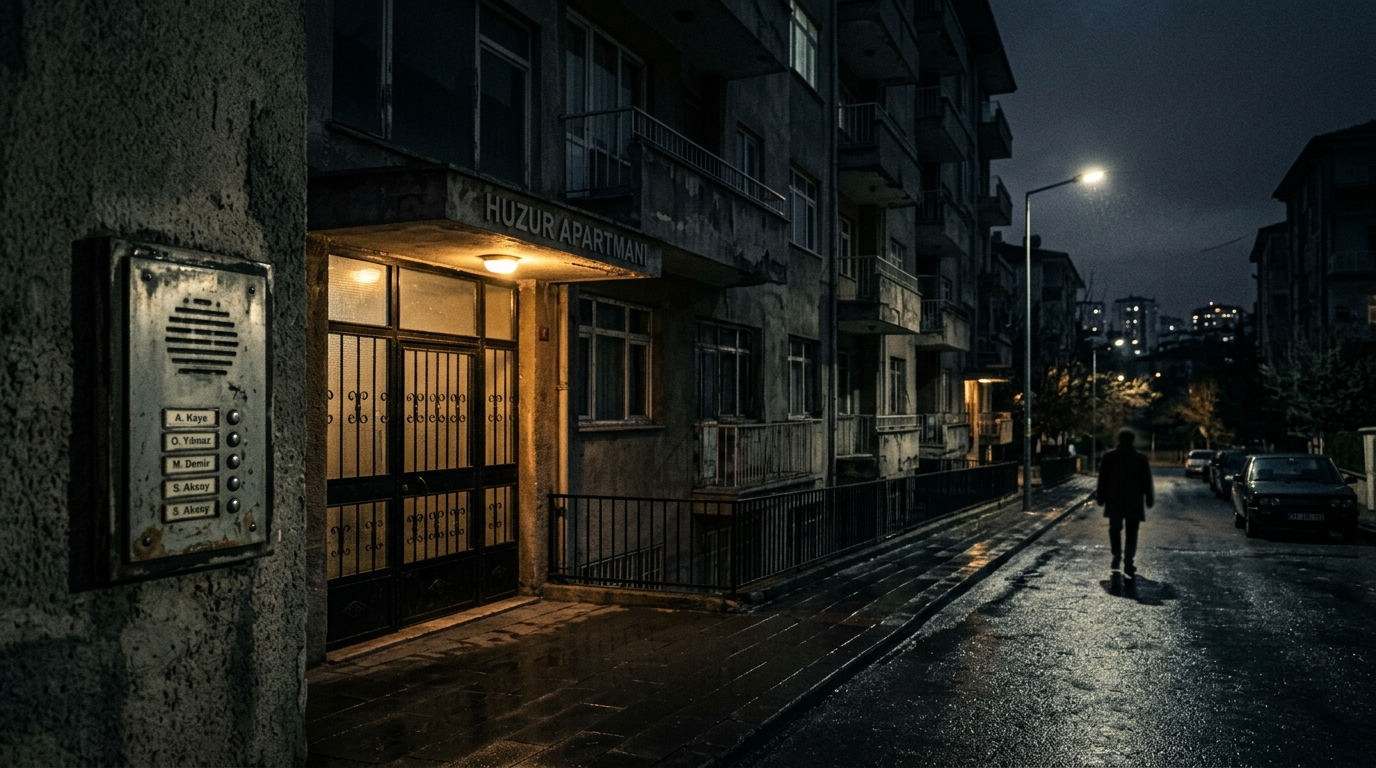
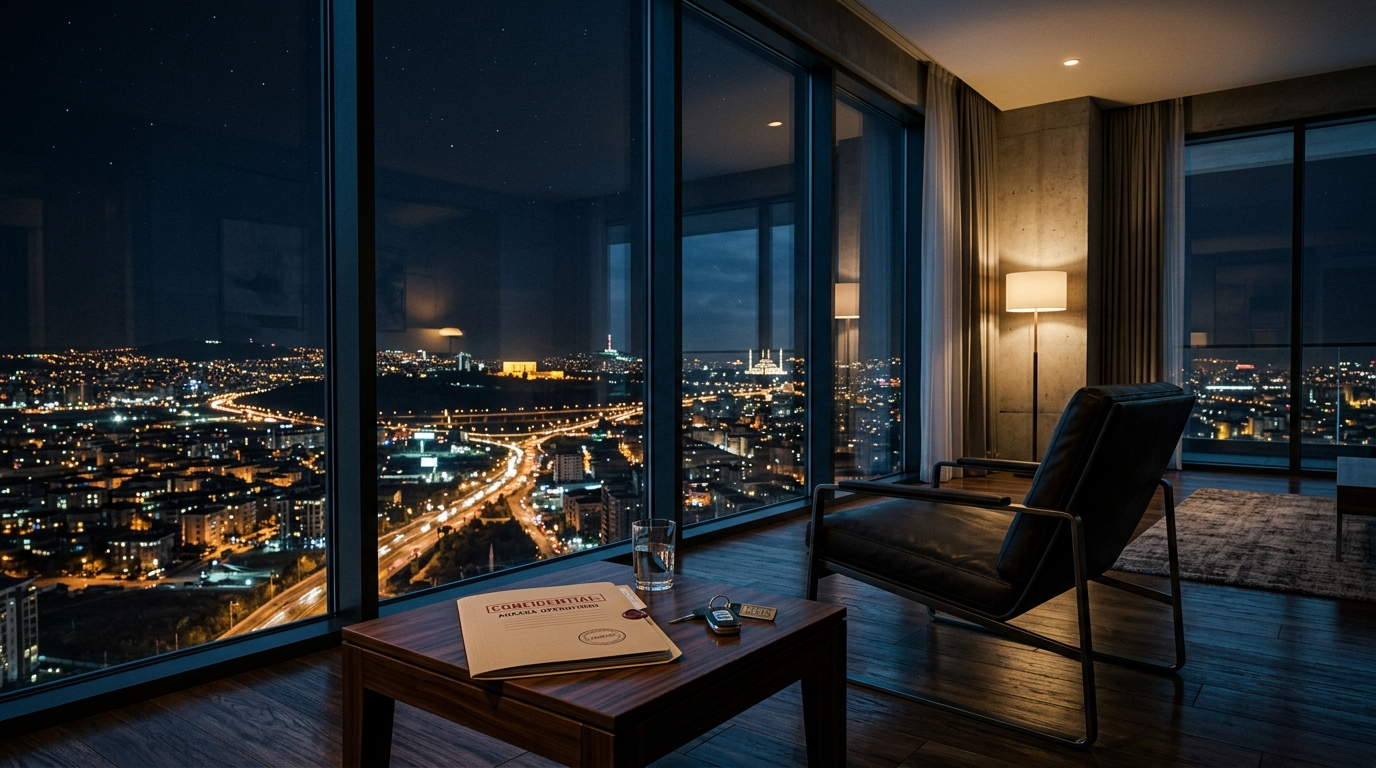
feat(sussuz): integrate v2 master night map, north penthouse, west studio, and lighthouse

diff --git a/sussuz/assets/js/app.js b/sussuz/assets/js/app.js
@@ -247,13 +247,13 @@ document.addEventListener("DOMContentLoaded", () => {
 
     hill: {
       id: "hill",
-      title: "TEPE // ANKARA AYAZI",
-      subtitle: "EXT. SUSUZ SIRTLARI / TEPE — 05:30 // BÖLÜM 2, SAHNE 12",
+      title: "TEPE // AŞIKLAR TEPESİ",
+      subtitle: "EXT. SUSUZ SIRTLARI / ISSIZ MANZARA — 05:30 // BÖLÜM 2, SAHNE 12",
       image: "assets/img/loc_hill.jpg",
       characterId: "murat",
       characterName: "Murat ve Ekrem",
       characterRole: "Sessizlik ve Ankara Ayazı",
-      atmosphere: "Bir anda bütün kulüp sesi kesiliyor. Sadece rüzgâr. Murat ve Ekrem arabaya yaslanmış, Ankara’ya bakıyor. Sigara. 'Bilmem, Ben De' teması giriyor. Ekrem: 'Her şeyi anlatak da diziye ne kaldı yarraam? :D'",
+      atmosphere: "Eski anten kulelerinden arınmış, virajlı yolun bittiği ıssız tepe. Aşıklar tepesi tadında ama gecenin 05:30'unda sadece rüzgâr ve sigara dumanı. Murat ve Ekrem arabaya yaslanmış, aşağıdaki Ankara ışıklarına bakıyor. 'Bilmem, Ben De' teması giriyor. Ekrem: 'Her şeyi anlatak da diziye ne kaldı yarraam? :D'",
       musicNote: "Bilmem, Ben De — Kuru Ayaz Rüzgarı",
       noteOrigin: "Araba Torpido Gözü",
       props: [
@@ -272,21 +272,26 @@ document.addEventListener("DOMContentLoaded", () => {
 
     lake: {
       id: "lake",
-      title: "GÖL KENARI",
+      title: "GÖL KENARI // DENİZ FENERİ",
       subtitle: "EXT. GÖKSU PARKI & ESKİ BATAKLIK KIYISI // DİLEK'İN DOĞUM GÜNÜ",
       image: "assets/img/scene_lake.png",
       characterId: "bahar",
       characterName: "Bahar",
       characterRole: "Tek Başına Direniş",
-      atmosphere: "Bahar tek başına. İskelede soğuk gece rüzgârı. Her gün yakmıyor bu mumu; bugün Bahar Dilek'in doğum günü. Kendi yaptığı pastayı almış gelmiş, Bahar Dilek'in kanı üzerine kurulmuş bir parkta onun doğum günü pastasını üflüyor... 'Bataklık' ağıtı.",
+      atmosphere: "Bahar tek başına. İskelenin ucundaki beyaz deniz fenerinin soğuk ışığı göle vuruyor. Her gün yakmıyor bu mumu; bugün Bahar Dilek'in doğum günü. Kendi yaptığı pastayı almış gelmiş, Bahar Dilek'in kanı üzerine kurulmuş bir parkta onun doğum günü pastasını üflüyor... 'Bataklık' ağıtı.",
       musicNote: "Bataklık — Ağıt ve Yağmur Tıpırtısı",
       isLakeMemorial: true,
-      noteOrigin: "İskele Kenarındaki Taş",
+      noteOrigin: "Fenerin Dibindeki İskele Tahtası",
       props: [
         {
           name: "Dilek'in Doğum Günü Pastası & Tek Mum",
           icon: "🕯",
           desc: "Bahar'ın kendi elleriyle yaptığı doğum günü pastası. Bahar Dilek'in kanı üzerine kurulmuş bu parkta üflenmeyi bekliyor."
+        },
+        {
+          name: "Göksu Deniz Feneri",
+          icon: "🏮",
+          desc: "Eski bataklığın üzerine inşa edilen parkta, göletin karanlık sularına vuran beyaz fener ışığı. Şehrin hafızasını örten eğreti bir ışık."
         }
       ]
     },
@@ -328,32 +333,53 @@ document.addEventListener("DOMContentLoaded", () => {
 
     murat_home: {
       id: "murat_home",
-      title: "MURAT'IN EVİ",
-      subtitle: "EXT. ANKARA APARTMANLARI // MEKÂN ÇAĞRISI",
+      title: "MURAT'IN EVİ // PENTHOUSE",
+      subtitle: "INT/EXT. KUZEY BLOKLARI / GÖKDELEN REZİDANS // BÖLÜM 1",
       image: "assets/img/loc_murat_home.jpg",
       characterId: "murat",
       characterName: "Murat",
-      characterRole: "Henüz Bulunmadı",
-      atmosphere: "MURAT'IN EVİ — Henüz bulunmadı. 'Evi de mi biz bulak müdür? :D Bu mekânı biliyor olabilirsin.'",
-      musicNote: "Uzak Trafik Uğultusu",
-      isMissingLocation: true,
-      noteOrigin: "Apartman Giriş Zili",
-      props: []
+      characterRole: "Soğuk Yalnızlık & Şehre Tepeden Bakış",
+      atmosphere: "Gölün ve Susuz'un tam karşısında, şehrin yeni gökdelen aksında camdan bir kule. Tavandan tabana camlar, Ankara'nın karanlık otoyol ışıkları ve aşağıdaki şehir. Bir bardak maden suyu, masada kapalı bir dosya ve araba anahtarı. Murat'ın Susuz'a ne kadar yabancı olduğunun sessiz kanıtı.",
+      musicNote: "Gece Otoyol Uğultusu ve Kuru Ayaz",
+      noteOrigin: "Masadaki Dosya Kenarı",
+      props: [
+        {
+          name: "Masa Üzerindeki Dosya ve Anahtarlar",
+          icon: "📁",
+          desc: "Torpido anahtarları ve açılmamış bir soruşturma dosyası. Şehre bakan camın önünde duran tek şey."
+        },
+        {
+          name: "Panoramik Ankara Camı",
+          icon: "🌃",
+          desc: "Gökdelenin tepesinden aşağıdaki göle ve Susuz'un karanlık mahallelerine uzanan soğuk Ankara manzarası."
+        }
+      ]
     },
 
     studio: {
       id: "studio",
       title: "KENAN'IN STÜDYOSU",
-      subtitle: "INT. SES ATÖLYESİ // MÜZİK WISHLIST VE STEMLER",
+      subtitle: "INT. BATI YAKASI SES ATÖLYESİ // STEMLER & WISHLIST",
       image: "assets/img/loc_studio.jpg",
       characterId: "kenan",
       characterName: "Kenan",
       characterRole: "Müzik Üretim Laboratuvarı",
-      atmosphere: "Kenan’ın alanı. Track stemleri. Mikrofon. Not defteri. Şarkıların demo hâlleri ve enstrüman wishlist'i.",
+      atmosphere: "Gölün batı yakasında, Susuz mahallesinden ve Bahar'ın evinden uzakta bağımsız bir sığınak. Şehrin iki ayrı yakası; bir yanda Kenan'ın ses mikseri, diğer yanda sokaklar. Track stemleri, analog mikrofon, not defteri ve şarkıların demoları.",
       musicNote: "Sınırda Kalanım / Bataklık Stemleri",
       isStudioSpecial: true,
       noteOrigin: "Stüdyodaki Not Defteri",
-      props: []
+      props: [
+        {
+          name: "Analog Mikser & Parça Listesi",
+          icon: "🎛",
+          desc: "Kenan'ın masasında duran parça listesi: 'Sınırda Kalanım', 'Bataklık', 'Gospel Baby'. Stüdyonun analog kalbi."
+        },
+        {
+          name: "Vokal Mikrofonu & Kül Tablası",
+          icon: "🎙",
+          desc: "Ekrem'in taburede it oturuşuyla şarkıyı söylediği, ucunda dumanı tüten sigaranın durduğu mikrofon standı."
+        }
+      ]
     }
   };
 

diff --git a/sussuz/assets/js/canvas-map.js b/sussuz/assets/js/canvas-map.js
@@ -76,12 +76,12 @@ class SpatialUniverse {
       {
         id: "lake",
         name: "GÖL KENARI",
-        subtitle: "GÖKSU PARKI // DİLEK'İN DOĞUM GÜNÜ",
-        x: 143,
-        y: 483,
-        radius: 24,
-        labelX: 135,
-        labelY: 412,
+        subtitle: "DENİZ FENERİ // DİLEK'İN DOĞUM GÜNÜ",
+        x: 138,
+        y: 575,
+        radius: 26,
+        labelX: 138,
+        labelY: 470,
         arrowType: "down",
         color: "rgba(92, 124, 250, "
       },
@@ -90,46 +90,46 @@ class SpatialUniverse {
         name: "RİTİM",
         subtitle: "ADA RESTORAN GECE KULÜBÜ",
         x: 527,
-        y: 337,
+        y: 345,
         radius: 28,
-        labelX: 580,
-        labelY: 285,
+        labelX: 585,
+        labelY: 290,
         arrowType: "down_left",
         color: "rgba(224, 49, 49, "
       },
       {
         id: "hill",
         name: "TEPE",
-        subtitle: "ANKARA MANZARASI // 05:30",
-        x: 1165,
-        y: 125,
-        radius: 28,
-        labelX: 1040,
-        labelY: 82,
-        arrowType: "down_right",
+        subtitle: "AŞIKLAR TEPESİ // ANKARA AYAZI",
+        x: 1060,
+        y: 210,
+        radius: 26,
+        labelX: 1140,
+        labelY: 155,
+        arrowType: "down_left",
         color: "rgba(235, 94, 40, "
       },
       {
         id: "murat_home",
         name: "MURAT'IN EVİ",
-        subtitle: "(HENÜZ BULUNMADI)",
-        x: 1226,
-        y: 259,
-        radius: 20,
-        labelX: 1270,
-        labelY: 218,
+        subtitle: "KUZEY BLOKLARI // PENTHOUSE",
+        x: 160,
+        y: 88,
+        radius: 24,
+        labelX: 250,
+        labelY: 60,
         arrowType: "down_left",
         color: "rgba(56, 178, 172, "
       },
       {
         id: "studio",
         name: "KENAN'IN STÜDYOSU",
-        subtitle: "MÜZİK ÜRETİM ATÖLYESİ",
-        x: 1168,
-        y: 407,
+        subtitle: "BATI YAKASI SES ATÖLYESİ",
+        x: 195,
+        y: 310,
         radius: 24,
-        labelX: 1070,
-        labelY: 365,
+        labelX: 120,
+        labelY: 260,
         arrowType: "down_right",
         color: "rgba(255, 107, 107, "
       },
@@ -173,10 +173,21 @@ class SpatialUniverse {
           desc: "Bahar bu mumu her gün yakmıyor. O gün Bahar Dilek'in doğum günü olduğu için kendi yaptığı pastayı almış gitmiş; göl kenarında, Bahar Dilek'in kanı üzerine kurulmuş bir parkta onun doğum günü pastasını üflüyor..." 
         },
         { 
+          id: "lake_lighthouse", 
+          name: "GÖKSU DENİZ FENERİ", 
+          relX: 0.22, 
+          relY: 0.35, 
+          icon: "🏮", 
+          subtitle: "İSKELE VE GECE IŞIĞI", 
+          action: "prop", 
+          propName: "Göksu Deniz Feneri",
+          desc: "Eski bataklığın üzerine inşa edilen parkta, göletin karanlık sularına vuran beyaz fener ışığı. Şehrin hafızasını örten eğreti bir ışık..." 
+        },
+        { 
           id: "lake_music", 
           name: "BATAKLIK (Bahar Söylüyor)", 
-          relX: 0.28, 
-          relY: 0.48, 
+          relX: 0.32, 
+          relY: 0.52, 
           icon: "🎵", 
           subtitle: "RESMİ SOUNDTRACK // OFFICIAL LYRIC VIDEO", 
           action: "music", 
@@ -279,7 +290,39 @@ class SpatialUniverse {
         { id: "home_lock", name: "SENARYO MASASI", relX: 0.50, relY: 0.55, icon: "🔒", subtitle: "HENÜZ YAZILIYOR. :D // YAZIM %84", action: "locked_info", desc: "Senaryo yazım süreci devam ediyor. Yazım ilerlemesi: %84." }
       ],
       murat_home: [
-        { id: "murat_miss", name: "MEKÂN ARAYIŞI", relX: 0.50, relY: 0.55, icon: "📍", subtitle: "HENÜZ BULUNMADI. :D // MEKÂN ÖNER", action: "location_info", desc: "Evi de mi biz bulak müdür? Bu mekânı biliyor olabilirsin." }
+        { 
+          id: "murat_view", 
+          name: "PANORAMİK ANKARA VE GÖKDELEN CAMI", 
+          relX: 0.28, 
+          relY: 0.45, 
+          icon: "🌃", 
+          subtitle: "EXT. KUZEY BLOKLARI // ŞEHRE TEPEDEN BAKIŞ", 
+          action: "prop", 
+          propName: "Panoramik Ankara Camı", 
+          desc: "Gökdelenin tepesinden aşağıdaki göle ve Susuz'un karanlık mahallelerine uzanan soğuk Ankara manzarası. Murat'ın Susuz'a ne kadar yabancı olduğunun sessiz kanıtı." 
+        },
+        { 
+          id: "murat_file", 
+          name: "MASADAKİ DOSYA VE ANAHTARLAR", 
+          relX: 0.48, 
+          relY: 0.82, 
+          icon: "📁", 
+          subtitle: "SORUŞTURMA VE ARABA ANAHTARI", 
+          action: "prop", 
+          propName: "Masa Üzerindeki Dosya ve Anahtarlar", 
+          desc: "Torpido anahtarları ve açılmamış bir soruşturma dosyası. Şehre bakan camın önünde duran tek şey." 
+        },
+        { 
+          id: "murat_dialogue", 
+          name: "MURAT İLE YÜZLEŞ", 
+          relX: 0.72, 
+          relY: 0.65, 
+          icon: "💬", 
+          subtitle: "SOĞUK YALNIZLIK", 
+          action: "dialogue", 
+          charId: "murat", 
+          desc: "Murat'ın iç dünyasına ve Susuz soruşturmasına dair diyalog." 
+        }
       ]
     };
 
